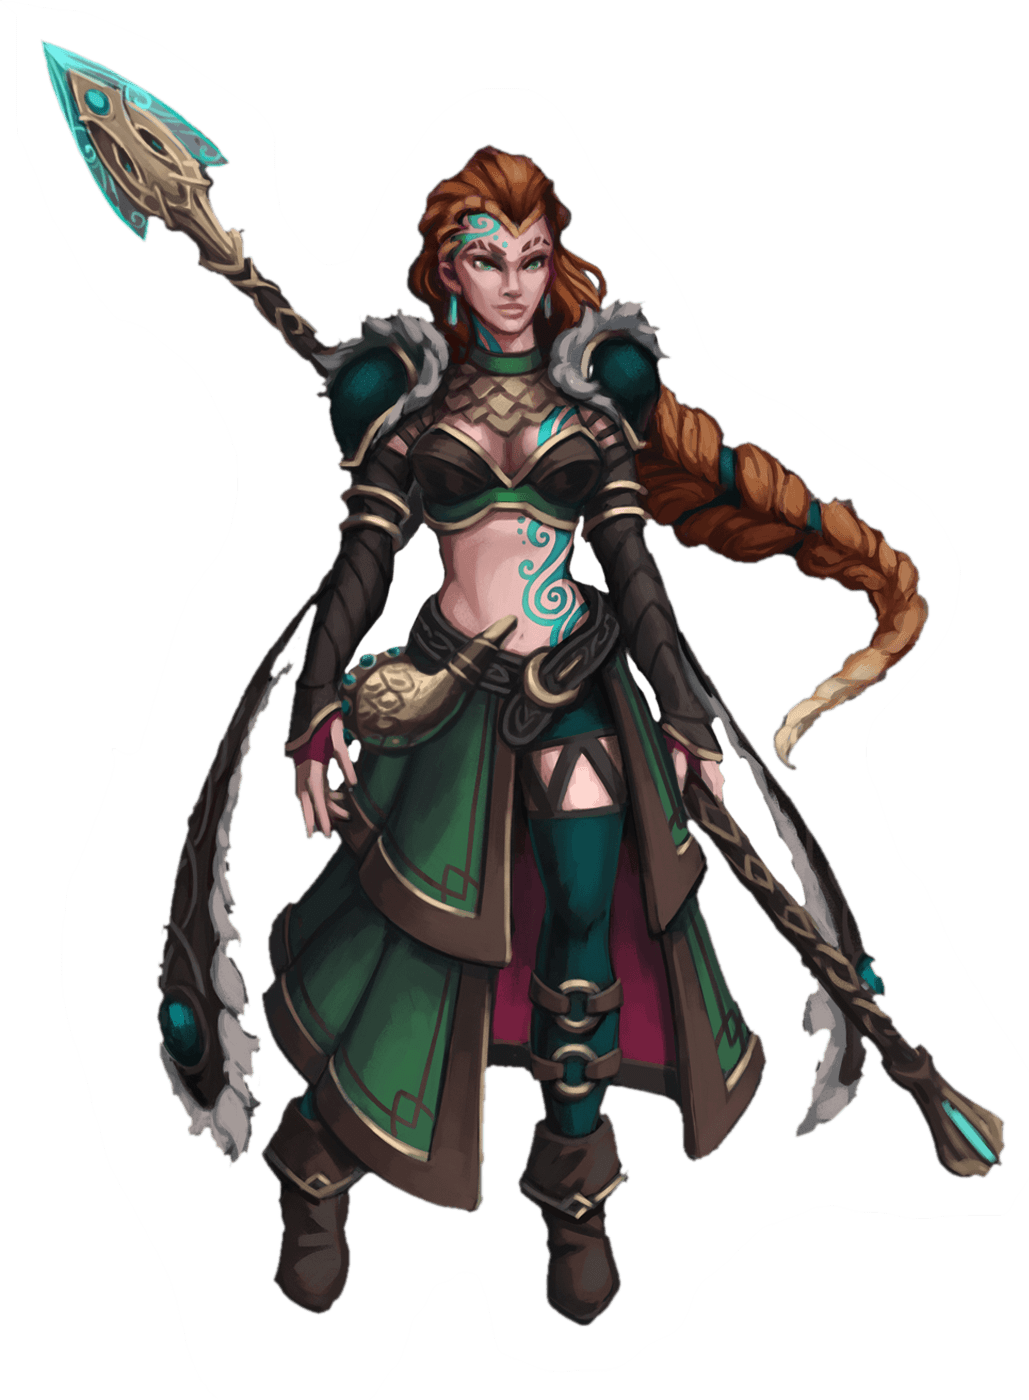
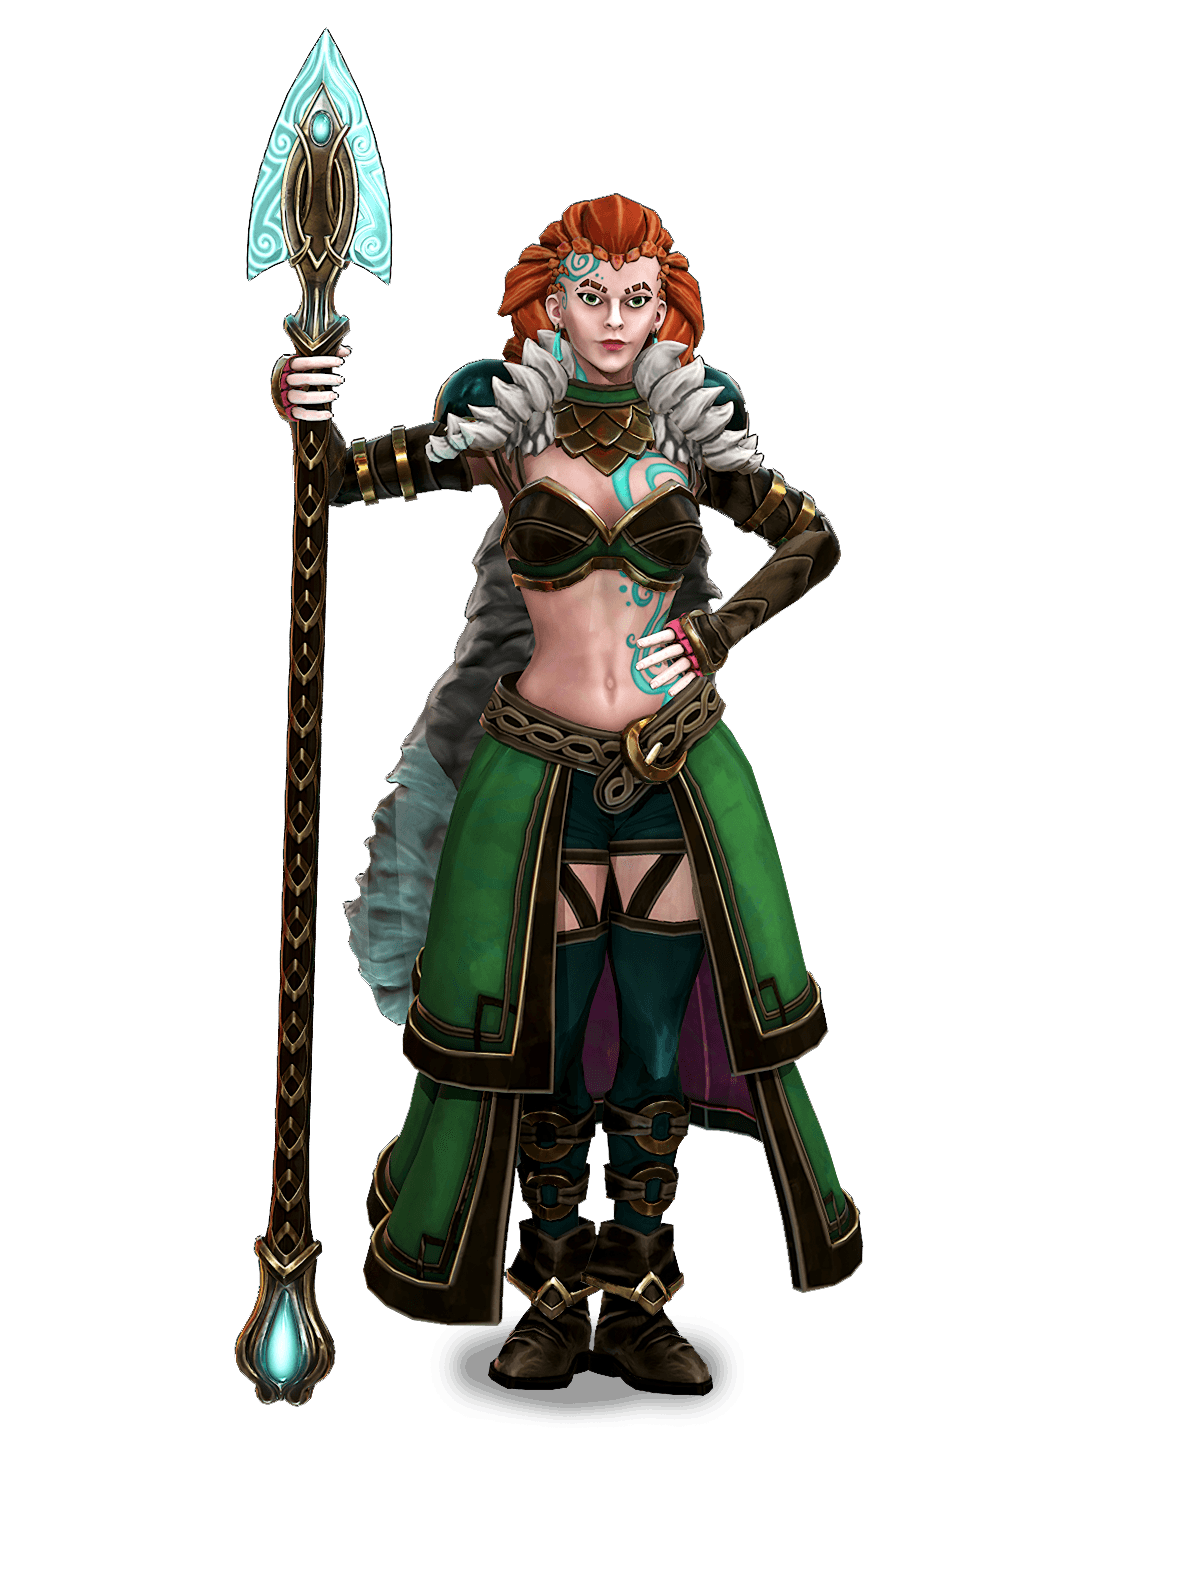
Use new images for champions and add some test data for PlayerView in lobby

diff --git a/game/hordetest/hud/src/components/fullscreen/StartScreen/Play/PlayerView.tsx b/game/hordetest/hud/src/components/fullscreen/StartScreen/Play/PlayerView.tsx
@@ -67,7 +67,7 @@ const PlayerImage = styled.div`
   top: 50%;
   left: 50%;
   transform: translate(-50%, -50%);
-  width: 500px;
+  width: 600px;
   height: 800px;
   background-image: ${(props: { image: string } & React.HTMLProps<HTMLDivElement>) => `url(${props.image})`};
   background-size: cover;
@@ -120,7 +120,11 @@ const ProfileBox = styled.div`
   width: 40px;
   height: 40px;
   background-color: #7e7e7e;
-  margin-right: 5px;
+  margin-right: 10px;
+  background-image: ${(props: { image: string } & React.HTMLProps<HTMLDivElement>) => `url(${props.image})`};
+  background-size: cover;
+  background-repeat: no-repeat;
+  background-position: center center;
 
   &.leader:before {
     content: '';
@@ -133,19 +137,20 @@ const ProfileBox = styled.div`
   }
   &.leader:after {
     content: '';
-    position: absolute;    
+    position: absolute;
     top: -3px;
     right: -3px;
     width: 44px;
     height: 44px;
     border: 1px solid #ffd805;
   }
-  }
 `;
 
 const TextContainer = styled.div`
   display: flex;
   flex-direction: column;
+  background-color: rgba(0, 0, 0, 0.8);
+  padding: 0 5px;
 `;
 
 const Name = styled.div`
@@ -225,14 +230,13 @@ export function PlayerView(props: Props) {
     });
   }
 
-  function getMyDefaultChampionImage() {
+  function getMyDefaultChampion() {
     if (colossusProfileContext.colossusProfile && colossusProfileContext.colossusProfile.defaultChampion) {
       const champ = getChampions().find(c => c.id === colossusProfileContext.colossusProfile.defaultChampion.championID);
-      return champ.costumes.find(c =>
-        c.id === colossusProfileContext.colossusProfile.defaultChampion.costumeID).standingImageURL;
+      return champ.costumes.find(c => c.id === colossusProfileContext.colossusProfile.defaultChampion.costumeID);
     }
 
-    return '../images/fullscreen/startscreen/human-m-blackguard.png';
+    return null;
   }
 
   if (warbandContextState.groupID) {
@@ -245,12 +249,12 @@ export function PlayerView(props: Props) {
                 <PlayerContainer>
                   <PlayerImage
                     className={'player-image'}
-                    image={'../images/fullscreen/startscreen/human-m-blackguard.png'}
+                    image={'images/fullscreen/startscreen/human-m-blackguard.png'}
                   />
                 </PlayerContainer>
               </PlayerPosition>
               <PlayerInfoContainer className={getClassName(i)}>
-                <ProfileBox className={player.isLeader ? 'leader' : ''} />
+                <ProfileBox className={player.isLeader ? 'leader' : ''} image={''} />
                 <TextContainer>
                   <Name>{player.name}</Name>
                   <Ready className={player.isReady ? '' : 'not-ready'}>{player.isReady ? 'Ready' : 'Not Ready'}</Ready>
@@ -263,20 +267,89 @@ export function PlayerView(props: Props) {
     );
   }
 
+  const defaultChampion = getMyDefaultChampion();
+  const standingImage = defaultChampion ? defaultChampion.standingImageURL :
+    'images/fullscreen/startscreen/human-m-blackguard.png';
+  const thumbnailImage = defaultChampion ? defaultChampion.thumbnailURL : '';
   return (
     <Container>
       <PlayerPosition className={getClassName(0)}>
         <PlayerContainer>
-          <PlayerImage className={'player-image'} image={getMyDefaultChampionImage()} />
+          <PlayerImage className={'player-image'} image={standingImage} />
         </PlayerContainer>
       </PlayerPosition>
       <PlayerInfoContainer className={getClassName(0)}>
-        <ProfileBox className={true ? 'leader' : ''} />
+        <ProfileBox className={true ? 'leader' : ''} image={thumbnailImage} />
         <TextContainer>
           <Name>You</Name>
           <Ready className={props.isReady ? '' : 'not-ready'}>{props.isReady ? 'Ready' : 'Not Ready'}</Ready>
         </TextContainer>
       </PlayerInfoContainer>
+
+      {/* <PlayerPosition className={getClassName(1)}>
+        <PlayerContainer>
+          <PlayerImage className={'player-image'} image={'images/hud/champions/berserker.png'} />
+        </PlayerContainer>
+      </PlayerPosition>
+      <PlayerInfoContainer className={getClassName(1)}>
+        <ProfileBox className={true ? 'leader' : ''} image={thumbnailImage} />
+        <TextContainer>
+          <Name>You</Name>
+          <Ready className={props.isReady ? '' : 'not-ready'}>{props.isReady ? 'Ready' : 'Not Ready'}</Ready>
+        </TextContainer>
+      </PlayerInfoContainer>
+
+      <PlayerPosition className={getClassName(2)}>
+        <PlayerContainer>
+          <PlayerImage className={'player-image'} image={'images/hud/champions/amazon.png'} />
+        </PlayerContainer>
+      </PlayerPosition>
+      <PlayerInfoContainer className={getClassName(2)}>
+        <ProfileBox className={true ? 'leader' : ''} image={thumbnailImage} />
+        <TextContainer>
+          <Name>You</Name>
+          <Ready className={props.isReady ? '' : 'not-ready'}>{props.isReady ? 'Ready' : 'Not Ready'}</Ready>
+        </TextContainer>
+      </PlayerInfoContainer>
+
+      <PlayerPosition className={getClassName(3)}>
+        <PlayerContainer>
+          <PlayerImage className={'player-image'} image={'images/hud/champions/amazon.png'} />
+        </PlayerContainer>
+      </PlayerPosition>
+      <PlayerInfoContainer className={getClassName(3)}>
+        <ProfileBox className={true ? 'leader' : ''} image={thumbnailImage} />
+        <TextContainer>
+          <Name>You</Name>
+          <Ready className={props.isReady ? '' : 'not-ready'}>{props.isReady ? 'Ready' : 'Not Ready'}</Ready>
+        </TextContainer>
+      </PlayerInfoContainer>
+
+      <PlayerPosition className={getClassName(4)}>
+        <PlayerContainer>
+          <PlayerImage className={'player-image'} image={'images/hud/champions/knight.png'} />
+        </PlayerContainer>
+      </PlayerPosition>
+      <PlayerInfoContainer className={getClassName(4)}>
+        <ProfileBox className={true ? 'leader' : ''} image={thumbnailImage} />
+        <TextContainer>
+          <Name>You</Name>
+          <Ready className={props.isReady ? '' : 'not-ready'}>{props.isReady ? 'Ready' : 'Not Ready'}</Ready>
+        </TextContainer>
+      </PlayerInfoContainer>
+
+      <PlayerPosition className={getClassName(5)}>
+        <PlayerContainer>
+          <PlayerImage className={'player-image'} image={'images/hud/champions/knight.png'} />
+        </PlayerContainer>
+      </PlayerPosition>
+      <PlayerInfoContainer className={getClassName(5)}>
+        <ProfileBox className={true ? 'leader' : ''} image={thumbnailImage} />
+        <TextContainer>
+          <Name>You</Name>
+          <Ready className={props.isReady ? '' : 'not-ready'}>{props.isReady ? 'Ready' : 'Not Ready'}</Ready>
+        </TextContainer>
+      </PlayerInfoContainer> */}
     </Container>
   );
 }

diff --git a/game/hordetest/hud/src/components/fullscreen/StartScreen/Play/ReadyButton.tsx b/game/hordetest/hud/src/components/fullscreen/StartScreen/Play/ReadyButton.tsx
@@ -5,8 +5,6 @@
  */
 
 import React, { useContext } from 'react';
-// import gql from 'graphql-tag';
-// import { css } from '@csegames/linaria';
 import { styled } from '@csegames/linaria/react';
 import { webAPI } from '@csegames/library/lib/hordetest';
 import { IMatchmakingUpdate, MatchmakingUpdateType } from '@csegames/library/lib/hordetest/graphql/schema';
@@ -14,7 +12,6 @@ import { IMatchmakingUpdate, MatchmakingUpdateType } from '@csegames/library/lib
 import { InputContext, InputContextState } from 'context/InputContext';
 import { MatchmakingContext, MatchmakingContextState, onMatchmakingUpdate } from 'context/MatchmakingContext';
 import { WarbandContext, WarbandContextState } from 'context/WarbandContext';
-// import { Button } from '../../Button';
 
 const ReadyButtonStyle = styled.div`
   position: relative;
